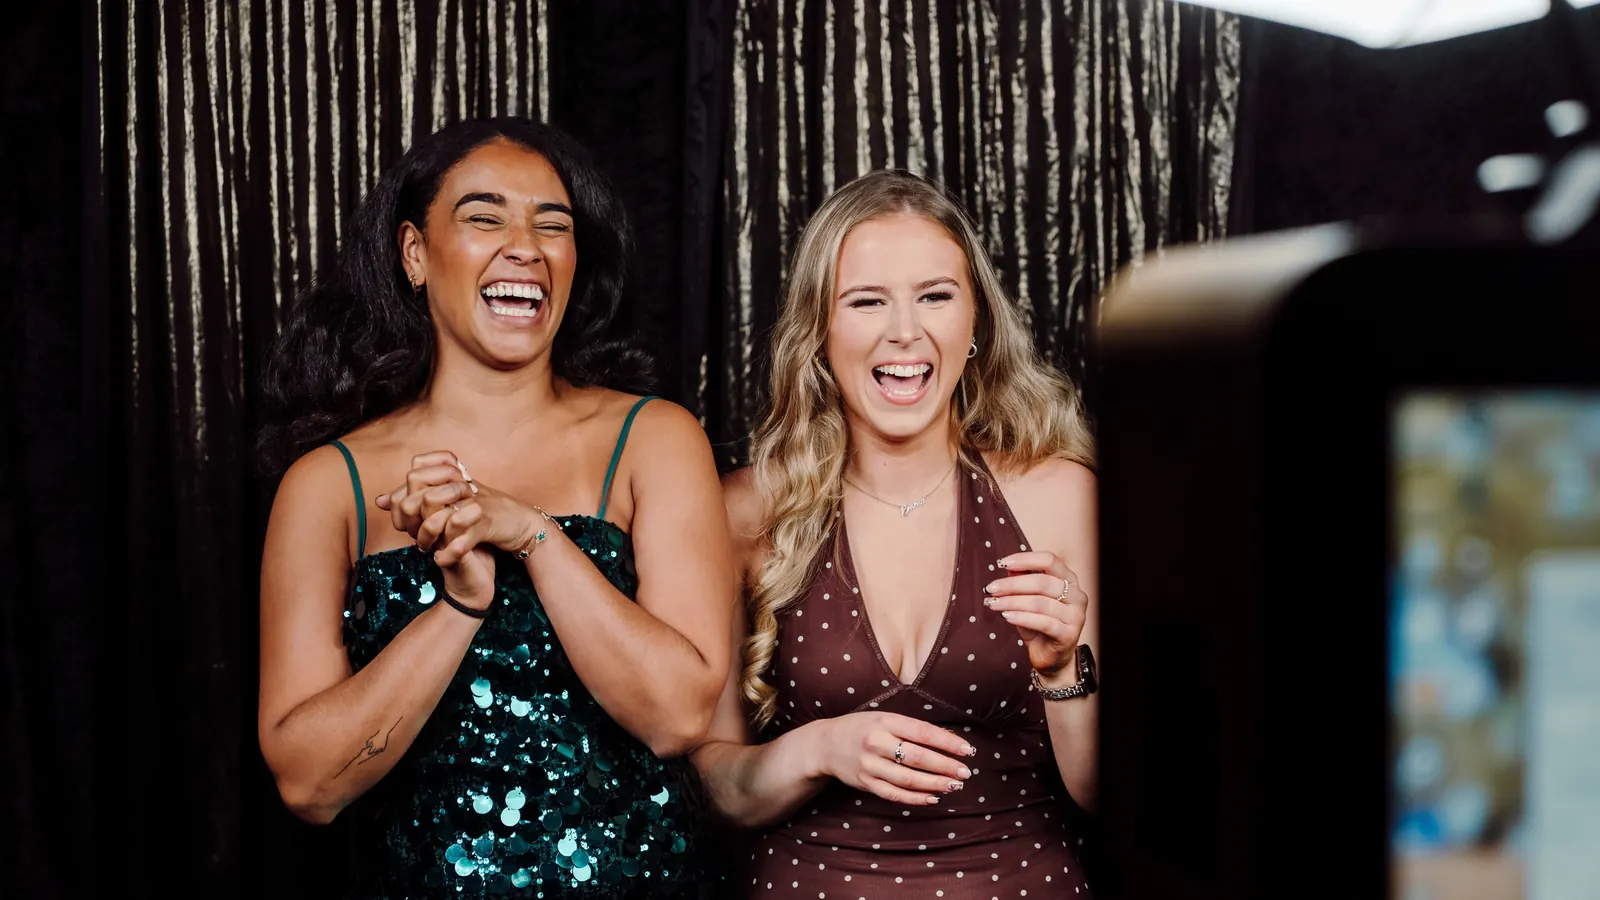
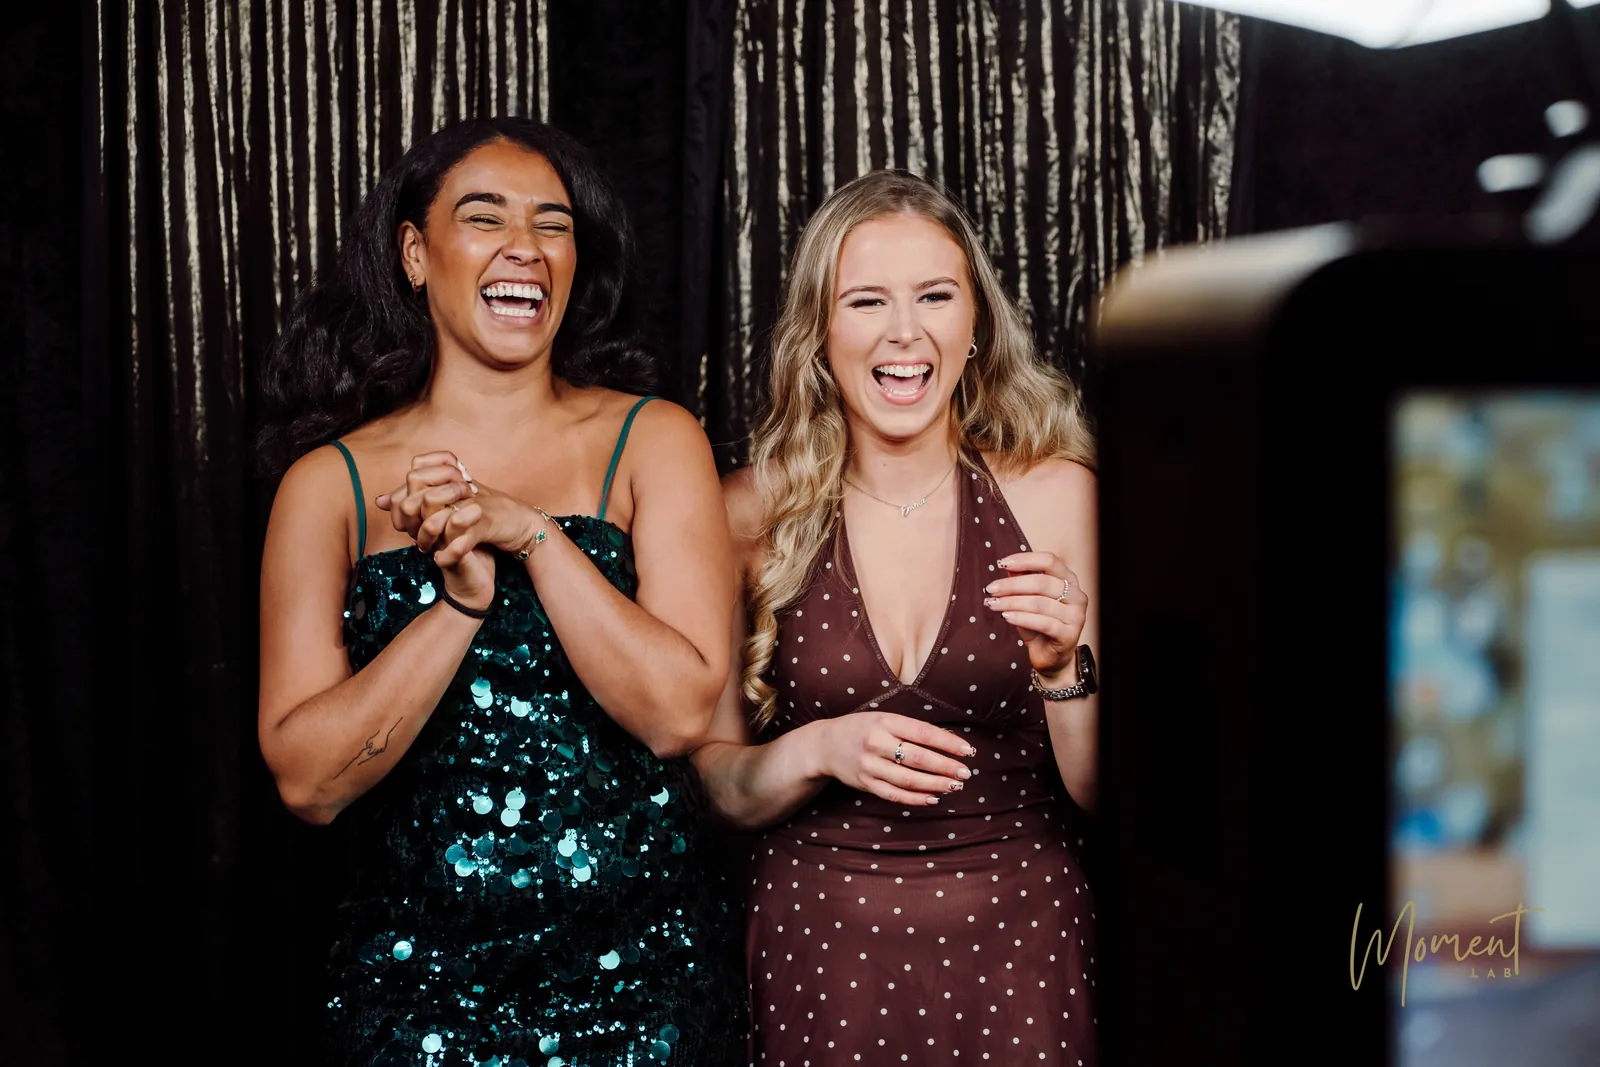
Show full booth in the room photo

diff --git a/experiences/holiday.html b/experiences/holiday.html
@@ -631,7 +631,7 @@ section p{max-width:66ch}
     </div>
     <div class="split" style="margin-top:44px">
       <div class="col-media">
-        <div class="photo photo--wide"><img src="/assets/experiences/new-year-eve-photo-booth-event-newcastle.webp" width="1600" height="900" alt="Two guests in evening dresses laughing as their photo appears on the booth screen" loading="lazy" decoding="async"></div>
+        <div class="photo photo--keep"><img src="/assets/experiences/new-year-eve-photo-booth-event-newcastle.webp" width="1600" height="1067" alt="Two guests in evening dresses laughing as their photo appears on the booth screen" loading="lazy" decoding="async"></div>
       </div>
       <div class="col-text">
         <p>Your guest steps up to the booth, the frame is captured based on the holiday experience you choose and a printed keepsake follows in seconds.</p>
